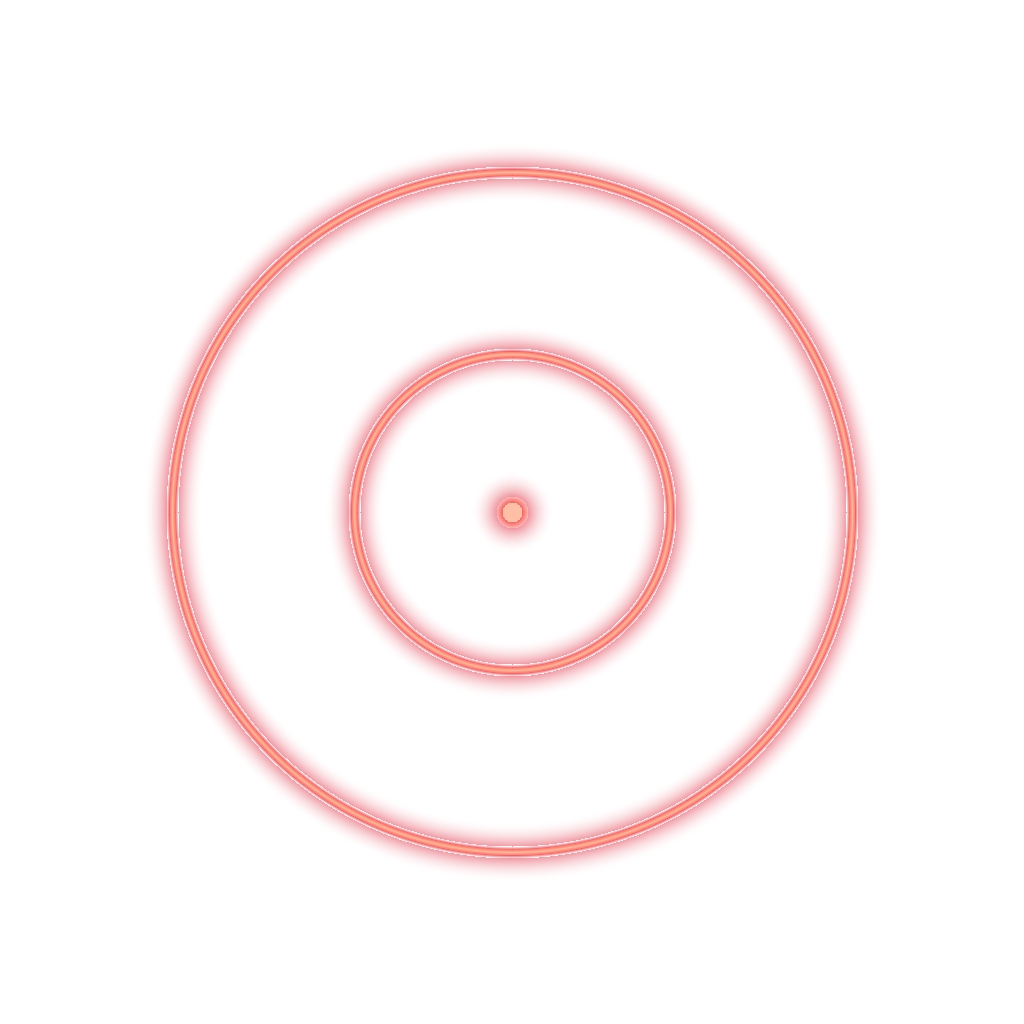
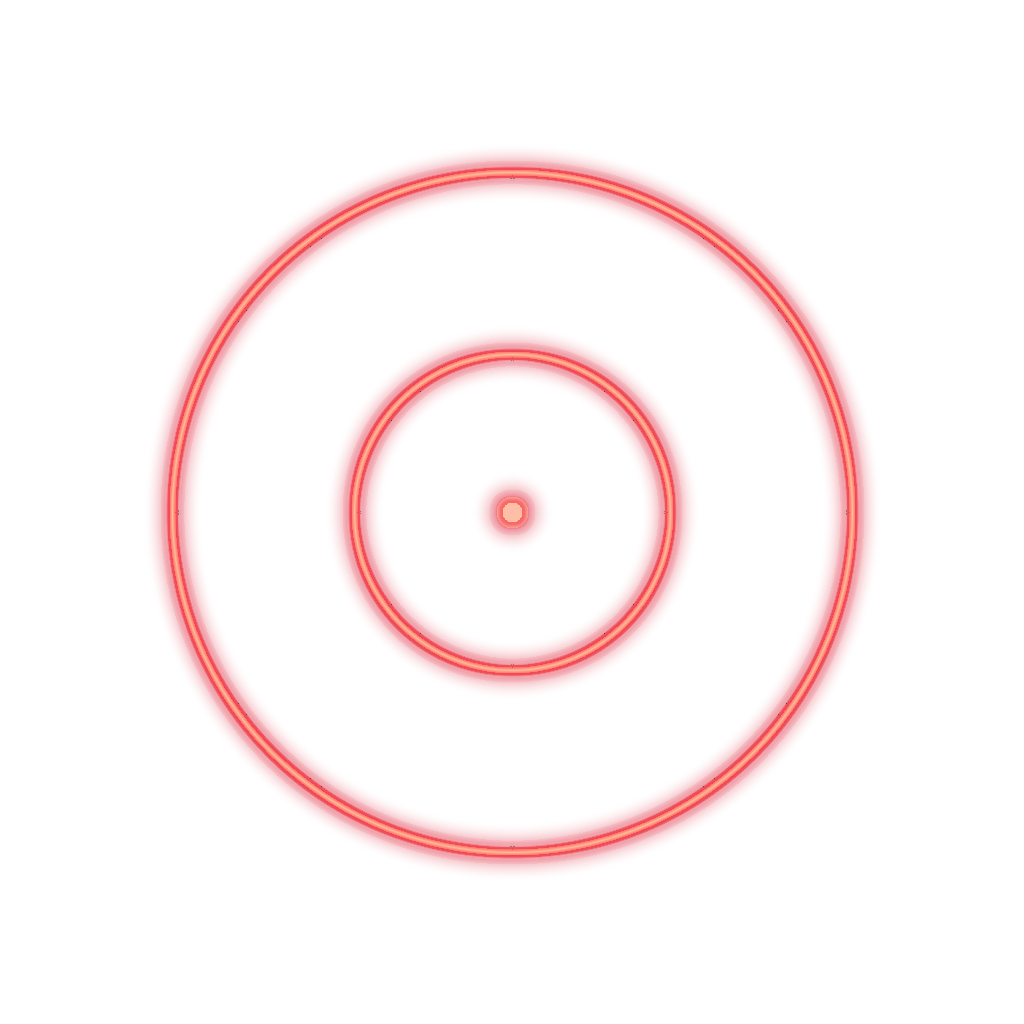
Rigid Cube & UI Refinements

diff --git a/VFXTracker/ContentView.swift b/VFXTracker/ContentView.swift
@@ -15,16 +15,16 @@ struct ContentView: View {
     // Tighter additive-style halo: bright inner rim and restrained colored outer light.
     private func glassCapsule(active: Bool = false) -> some View {
         Capsule()
-            .fill(.ultraThinMaterial)
-            .overlay(Capsule().fill(Color.white.opacity(0.025)))
+            .fill(.ultraThinMaterial).opacity(0.78)
+            .overlay(Capsule().fill(Color.white.opacity(0.055)))
             .overlay(Capsule().strokeBorder(active ? LinearGradient(colors: [coral, brightCoral, coral], startPoint: .topLeading, endPoint: .bottomTrailing) : LinearGradient(colors: [.white.opacity(0.30), .white.opacity(0.30)], startPoint: .top, endPoint: .bottom), lineWidth: 1.25))
             .shadow(color: active ? coral.opacity(0.65) : .clear, radius: 5)
             .shadow(color: active ? coral.opacity(0.20) : .clear, radius: 12)
     }
     private func glassRounded(_ radius: CGFloat = 18, active: Bool = false) -> some View {
         RoundedRectangle(cornerRadius: radius)
-            .fill(.ultraThinMaterial)
-            .overlay(RoundedRectangle(cornerRadius: radius).fill(.white.opacity(0.025)))
+            .fill(.ultraThinMaterial).opacity(0.78)
+            .overlay(RoundedRectangle(cornerRadius: radius).fill(.white.opacity(0.055)))
             .overlay(RoundedRectangle(cornerRadius: radius).strokeBorder(active ? LinearGradient(colors: [coral, brightCoral, coral], startPoint: .topLeading, endPoint: .bottomTrailing) : LinearGradient(colors: [.white.opacity(0.33), .white.opacity(0.33)], startPoint: .top, endPoint: .bottom), lineWidth: 1.0))
             .shadow(color: active ? coral.opacity(0.48) : .clear, radius: 5)
     }
@@ -36,8 +36,6 @@ struct ContentView: View {
                 .shadow(color: .white.opacity(0.25), radius: 8)
             Text("Track")
                 .foregroundStyle(coral)
-                // The lighter salmon is a very thin edge highlight around the red fill.
-                .shadow(color: brightCoral.opacity(0.95), radius: 0.65)
                 .shadow(color: coral.opacity(0.90), radius: 5)
                 .shadow(color: coral.opacity(0.55), radius: 12)
         }
@@ -120,6 +118,44 @@ struct ContentView: View {
                 }
                 .padding(.horizontal, 18).padding(.bottom, 12)
 
+                if store.trackingMode == .rigid {
+                    VStack(spacing: 6) {
+                        HStack(spacing: 8) {
+                            Button { showRigidSettings = true } label: {
+                                Label("Cube Settings", systemImage: "cube.transparent")
+                            }
+                            Spacer(minLength: 3)
+                            if store.rigidCalibrating {
+                                Text("\(store.rigidFaceCount)/5 faces")
+                                    .foregroundStyle(brightCoral)
+                            } else {
+                                Text(store.rigidReady ? "READY" : "NOT CALIBRATED")
+                                    .foregroundStyle(store.rigidReady ? .green : brightCoral)
+                            }
+                            Button(store.rigidCalibrating ? "Finish" : (store.rigidReady ? "Recalibrate" : "Calibrate")) {
+                                if store.rigidCalibrating { store.finishRigidCalibration() }
+                                else { store.startRigidCalibration() }
+                            }
+                            .disabled(store.recording)
+                        }
+                        if store.rigidCalibrating {
+                            GeometryReader { geo in
+                                ZStack(alignment: .leading) {
+                                    Capsule().fill(.white.opacity(0.14))
+                                    Capsule().fill(coral).frame(width: geo.size.width * CGFloat(store.rigidFaceCount) / 5.0)
+                                }
+                            }
+                            .frame(height: 4)
+                            Text(store.rigidConnectedCount < store.rigidFaceCount ? "Show neighboring faces together to connect them" : "Rotate to show all five faces")
+                                .font(.system(size: 10)).foregroundStyle(.white.opacity(0.75))
+                        }
+                    }
+                    .font(.system(size: 11, weight: .semibold))
+                    .padding(11)
+                    .background(glassRounded(12))
+                    .padding(.horizontal, 16).padding(.bottom, 10)
+                }
+
                 HStack(spacing: 7) {
                     Button { store.cycleTrackingMode() } label: {
                         HStack(spacing: 5) {
@@ -151,25 +187,6 @@ struct ContentView: View {
                 .background(glassRounded())
                 .padding(.horizontal, 16).padding(.bottom, 12)
 
-                if store.trackingMode == .rigid {
-                    HStack(spacing: 8) {
-                        Button { showRigidSettings = true } label: {
-                            Label("Cube Settings", systemImage: "cube.transparent")
-                        }
-                        Spacer()
-                        Text(store.rigidReady ? "CALIBRATED" : (store.rigidCalibrating ? "SCANNING" : "NOT CALIBRATED"))
-                            .foregroundStyle(store.rigidReady ? .green : brightCoral)
-                        Button(store.rigidCalibrating ? "Finish" : "Calibrate") {
-                            if store.rigidCalibrating { store.finishRigidCalibration() }
-                            else { store.startRigidCalibration() }
-                        }
-                        .disabled(store.recording)
-                    }
-                    .font(.system(size: 11, weight: .semibold))
-                    .padding(11)
-                    .background(glassRounded(12))
-                    .padding(.horizontal, 16).padding(.bottom, 10)
-                }
 
                 HStack(spacing: 10) {
                     Button {
@@ -199,8 +216,8 @@ struct ContentView: View {
             .foregroundStyle(.white)
         }
         .overlay(alignment: .top) {
-            LinearGradient(colors: [.black.opacity(0.28), .clear], startPoint: .top, endPoint: .bottom)
-                .frame(height: 65).ignoresSafeArea(edges: .top).allowsHitTesting(false)
+            LinearGradient(colors: [.black.opacity(0.53), .black.opacity(0.20), .clear], startPoint: .top, endPoint: .bottom)
+                .frame(height: 110).ignoresSafeArea(edges: .top).allowsHitTesting(false)
         }
         .onAppear {
             UIApplication.shared.isIdleTimerDisabled = true

diff --git a/VFXTracker/ARCameraView.swift b/VFXTracker/ARCameraView.swift
@@ -195,12 +195,18 @@ struct ARCameraView: UIViewRepresentable {
         private func showMarkers(_ markers: [LiveMarker]) {
             guard let view = view else { return }
             let now = ProcessInfo.processInfo.systemUptime
+            if store.trackingMode == .rigid && !store.rigidCalibrating {
+                markerNodes.values.forEach { $0.removeFromParentNode() }
+                markerNodes.removeAll(); lastMarkerSeen.removeAll()
+                return
+            }
             // Keep the last measured pose visible during brief missed scans.
             // Never fabricate marker samples or interpolate raw recorded data.
             let visibleIDs = Set(markers.map(\.id))
             for (id, node) in markerNodes where !visibleIDs.contains(id) {
                 let age = now - (lastMarkerSeen[id] ?? 0)
-                // Retain the last measured pose until mode reset; never invent measurements.
+                // Rigid calibration shows only currently observed tags.
+                if store.trackingMode == .rigid { node.removeFromParentNode(); markerNodes.removeValue(forKey: id); lastMarkerSeen.removeValue(forKey: id); continue }
                 node.isHidden = false
                 node.opacity = age > 0.20 ? 0.48 : 1.0
             }
@@ -245,14 +251,32 @@ struct ARCameraView: UIViewRepresentable {
         private func showRigidPose(_ pose: simd_float4x4?) {
             guard let pose else { return }
             rigidGizmo.simdTransform = pose
+            rigidGizmo.simdScale = SIMD3<Float>(repeating: Float(store.rigidCubeMillimeters / 1000))
             rigidGizmo.isHidden = false
         }
         private func makeRigidGizmo() {
-            let colors: [(SIMD3<Float>, UIColor)] = [
-                (SIMD3<Float>(1,0,0), UIColor(red:1,green:0.60,blue:0.59,alpha:1)),
-                (SIMD3<Float>(0,1,0), UIColor(red:0.58,green:1,blue:0.65,alpha:1)),
-                (SIMD3<Float>(0,0,1), UIColor(red:0.60,green:0.77,blue:1,alpha:1))]
-            for (axis, color) in colors { segment(.zero, axis * 0.13, radius: 0.0025, color: color, parent: rigidGizmo) }
+            // A solid invisible cube writes depth; only the visible edges survive depth testing.
+            // All coordinates are cube-local, and can be rescaled with the calibrated edge.
+            let cube = SCNBox(width: 1, height: 1, length: 1, chamferRadius: 0)
+            let occluder = SCNMaterial()
+            occluder.colorBufferWriteMask = []
+            occluder.writesToDepthBuffer = true
+            occluder.readsFromDepthBuffer = true
+            occluder.lightingModel = .constant
+            cube.materials = Array(repeating: occluder, count: 6)
+            let solid = SCNNode(geometry: cube)
+            solid.renderingOrder = -1
+            rigidGizmo.addChildNode(solid)
+            let h: Float = 0.5
+            let color = UIColor(red: 1, green: 0.55, blue: 0.52, alpha: 1)
+            let vertices: [SIMD3<Float>] = [SIMD3(-h,-h,-h), SIMD3(h,-h,-h), SIMD3(h,h,-h), SIMD3(-h,h,-h), SIMD3(-h,-h,h), SIMD3(h,-h,h), SIMD3(h,h,h), SIMD3(-h,h,h)]
+            let pairs = [(0,1),(1,2),(2,3),(3,0),(4,5),(5,6),(6,7),(7,4),(0,4),(1,5),(2,6),(3,7)]
+            for (i,j) in pairs {
+                segment(vertices[i], vertices[j], radius: 0.012, color: color, parent: rigidGizmo)
+            }
+            segment(SIMD3(0,-0.65,0), SIMD3(0,0.65,0), radius: 0.015,
+                    color: UIColor(red: 0.65, green: 1, blue: 0.75, alpha: 1), parent: rigidGizmo)
+            rigidGizmo.simdScale = SIMD3<Float>(repeating: Float(store.rigidCubeMillimeters / 1000))
         }
         private func material(_ color: UIColor) -> SCNMaterial {
             let m = SCNMaterial()
@@ -309,7 +333,7 @@ struct ARCameraView: UIViewRepresentable {
             m.shaderModifiers = [.surface: """
                 uniform vec3 revealUV;
                 float distanceMeters = distance(_surface.diffuseTexcoord, revealUV.xy) * 5.0;
-                float fade = 1.0 - smoothstep(0.12, 1.65, distanceMeters);
+                float fade = 1.0 - smoothstep(0.06, 0.825, distanceMeters);
                 _surface.diffuse.a *= fade;
             """]
             plane.materials = [m]

diff --git a/VFXTracker/TrackingStore.swift b/VFXTracker/TrackingStore.swift
@@ -61,6 +61,8 @@ final class TrackingStore: ObservableObject {
     @Published private(set) var rigidCalibrating = false
     @Published private(set) var rigidReady = false
     @Published private(set) var rigidDetectedIDs = "None"
+    @Published private(set) var rigidFaceCount = 0
+    @Published private(set) var rigidConnectedCount = 0
     @Published var rigidTagMillimeters: Double = 75
     @Published var rigidCubeMillimeters: Double = 90
     private let rigidTracking = RigidTracking()
@@ -77,7 +79,7 @@ final class TrackingStore: ObservableObject {
             self.rigidTracking.start()
             DispatchQueue.main.async {
                 self.rigidCalibrating = true; self.rigidReady = false
-                self.rigidDetectedIDs = "None"; self.message = "Rotate cube; show adjacent faces together"
+                self.rigidDetectedIDs = "None"; self.rigidFaceCount = 0; self.rigidConnectedCount = 0; self.message = "Rotate cube; show adjacent faces together"
             }
         }
     }
@@ -281,7 +283,25 @@ final class TrackingStore: ObservableObject {
                     self.rigidTracking.updateCalibration(live)
                     if self.rigidTracking.calibrating {
                         let ids = self.rigidTracking.observedIDs.map(String.init).joined(separator: ", ")
-                        DispatchQueue.main.async { self.rigidDetectedIDs = ids.isEmpty ? "None" : ids }
+                        let faceCount = self.rigidTracking.observedIDs.count
+                        let connected = self.rigidTracking.connectedCount
+                        DispatchQueue.main.async {
+                            self.rigidDetectedIDs = ids.isEmpty ? "None" : ids
+                            self.rigidFaceCount = faceCount
+                            self.rigidConnectedCount = connected
+                            if faceCount >= 5 && connected < faceCount {
+                                self.message = "Show adjacent faces together to connect calibration"
+                            }
+                        }
+                        if self.rigidTracking.canFinish {
+                            let success = self.rigidTracking.finish()
+                            if success {
+                                DispatchQueue.main.async {
+                                    self.rigidReady = true; self.rigidCalibrating = false
+                                    self.message = "Cube calibrated automatically (5 faces)"
+                                }
+                            }
+                        }
                     }
                     if let estimate = self.rigidTracking.estimate(live) {
                         self.lastRigidPreview = estimate.0

diff --git a/VFXTracker/RigidTracking.swift b/VFXTracker/RigidTracking.swift
@@ -33,7 +33,19 @@ final class RigidTracking {
     var cubeEdge: Float = 0.09
     var tagSize: Float = 0.075
     var observedIDs: [Int] { seen.sorted() }
-    var ready: Bool { !calibrating && model.count >= 2 }
+    var ready: Bool { !calibrating && model.count >= 5 }
+    var connectedCount: Int {
+        guard let root = seen.sorted().first else { return 0 }
+        var visited: Set<Int> = [root]
+        var pending = [root]
+        while let current = pending.popLast() {
+            for (other, edge) in edges[current] ?? [:] where edge.count >= 3 && !visited.contains(other) {
+                visited.insert(other); pending.append(other)
+            }
+        }
+        return visited.count
+    }
+    var canFinish: Bool { calibrating && seen.count >= 5 && connectedCount >= seen.count }
     init() { load() }
     private struct Saved: Codable { var tagSize: Float; var edge: Float; var transforms: [Int: [Float]] }
     private func save() {
